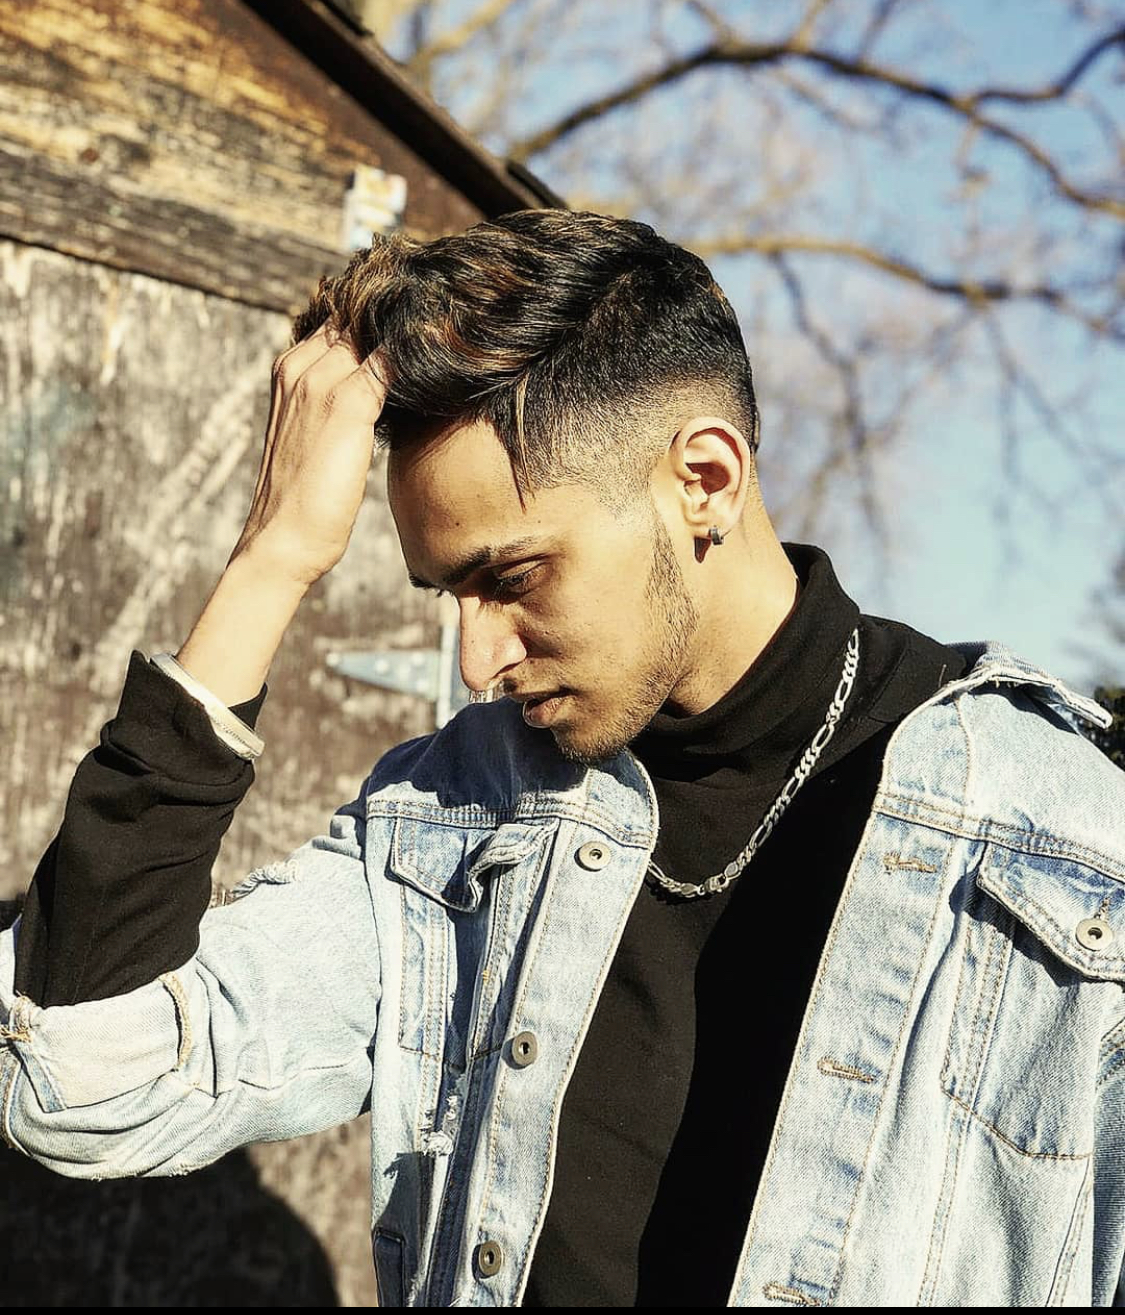
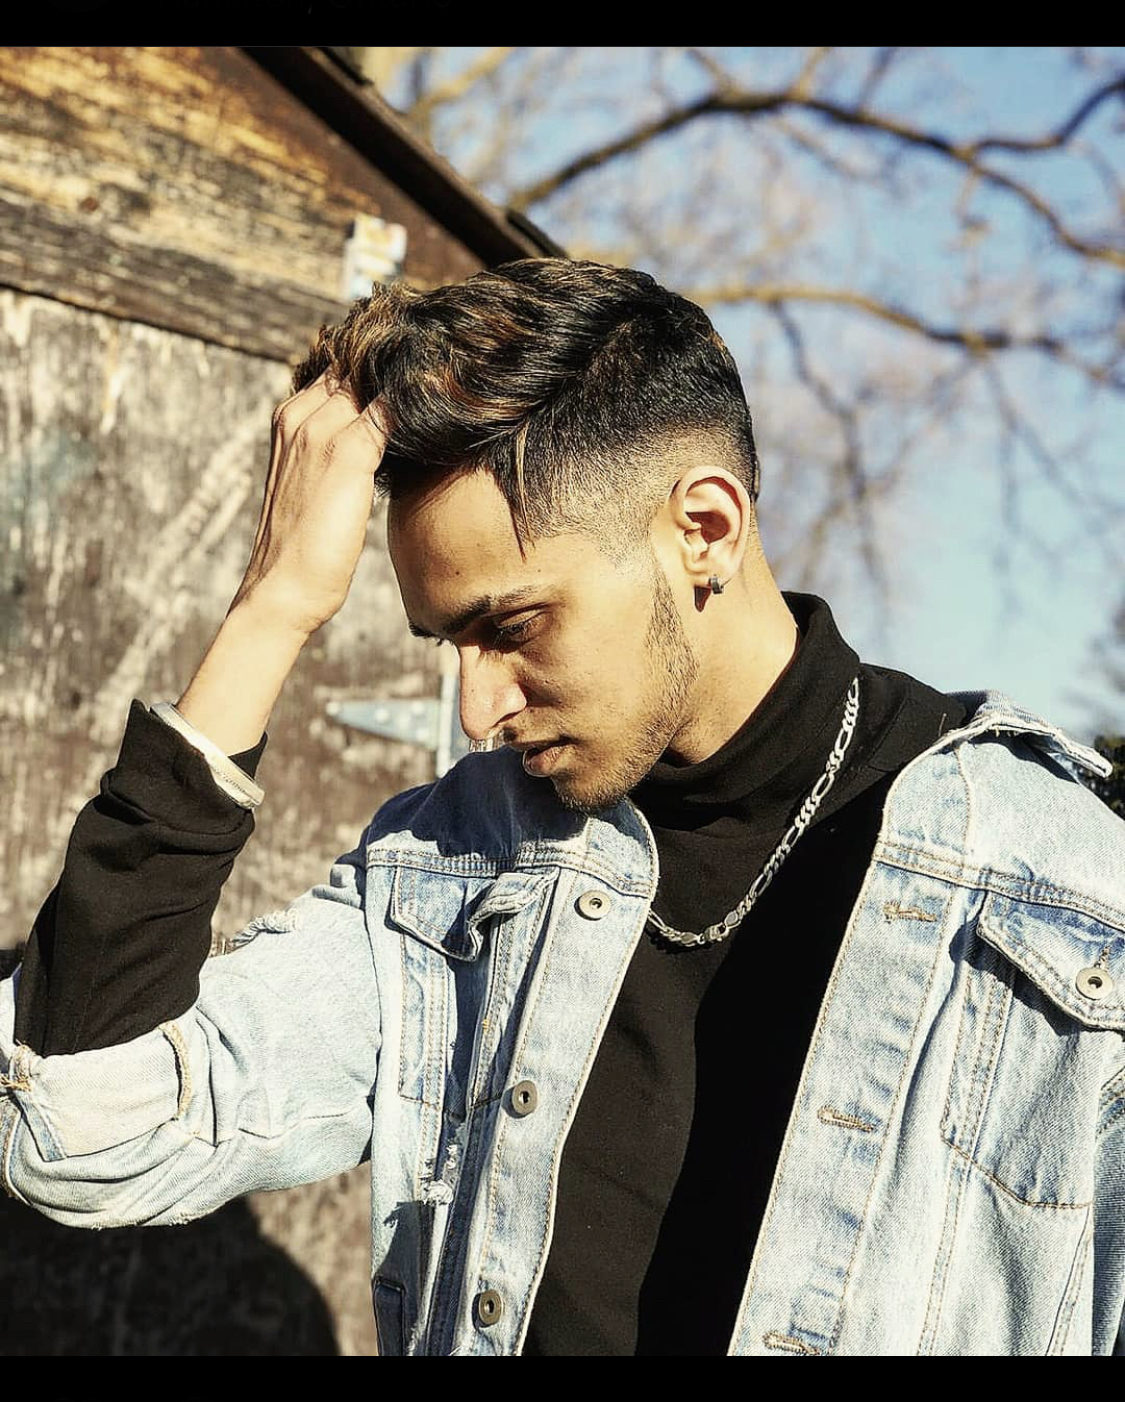
updated portfolio

diff --git a/assets/stylesheet.css b/assets/stylesheet.css
@@ -12,9 +12,9 @@ body {
 
 /* Header layout*/
 header {
-    font-family: 'Trebuchet MS', 'Lucida Sans Unicode', 'Lucida Grande', 'Lucida Sans', Arial, sans-serif;
-    background-color: rgb(9, 59, 77);
-    color: #000000;
+    font-family: cursive ;
+    background-color: rgb(11, 68, 88);
+    color: rgb(162, 234, 243);
     border-bottom: 3px solid skyblue;
 }
 
@@ -28,25 +28,26 @@ header {
     z-index: 2;
     position: fixed;
     width: 100%;
-    height: 50px;
+    height: 55px;
     text-align: left;
     padding: 5px;
+    border-radius: 25px 25px 0px 0px;
     
 }
 
 /* Nav-Bar layout */
 header nav {
-    padding-top: 15px;
     margin-right: 20px;
     float: right;
-    font-family: 'Gill Sans', 'Gill Sans MT', Calibri, 'Trebuchet MS', sans-serif;
-    font-size: 20px;
+    font-family: initial;
+    font-size: 25px;
 }
 
 header nav ul li {
     display: inline-block;
     margin-left: 25px;
 }
+
 a {
     color: #000000;
     text-decoration: none;
@@ -54,25 +55,27 @@ a {
 
 /* Main body */
 .carousel-item img {
-    margin-top: 50px;
-    height: 90% auto;
-    width: 90%;
+    margin-top: 55px;
+    height: 100% auto;
+    width: 100%;
     border-right: 2px solid skyblue;
     border-bottom: 2px solid skyblue;
     margin-bottom: 25px;
     border-radius: 0px 60px 0px 60px;
 }
 .instructions{
+    position: relative;
+    display: flex;
+    flex-wrap: wrap;
+    justify-content: right;
     color: skyblue;
-}
-span{
-    color: #000000;
+    top: -575px;
 }
 
 .dashedbox{
     position: relative;
     display: inline-flex;
-    top: -450px;
+    top: -575px;
     float: right;
     flex-wrap: wrap;
     height: 150px;
@@ -104,7 +107,6 @@ p {
     position: absolute;
     width: 50%;
     top: -70px;
-    
     text-align: center;
     border-style: solid;
     margin: 20px auto;
@@ -113,11 +115,12 @@ p {
 /* ContactInfo */
 .contact{
     display: inline-block;
-    height: 60px;
+    flex-wrap: wrap;
+    height: 70px;
     width: 100%;
     margin-top: 10px;
-    border-radius: 0px 50px 0px 50px;
-    background-color: white;
+    border-radius: 0px 0px 50px 50px;
+    background-color: rgb(134, 133, 133);
     font-size: 22px;
     text-align: center;
     

diff --git a/index.html b/index.html
@@ -60,10 +60,9 @@
           </div>
         </main>
         <section1 class="section1"> 
-          <h2 class="instructions">
-            <br>
-            <b><i>Hover over to read content: </i></b>
-          </h2>
+          <h4 class="instructions">
+            <i>Hover over to read content: </i>
+          </h4>
             <section class="dashedbox">
             <div class="flexbox">
               <h2>Bio</h2>
